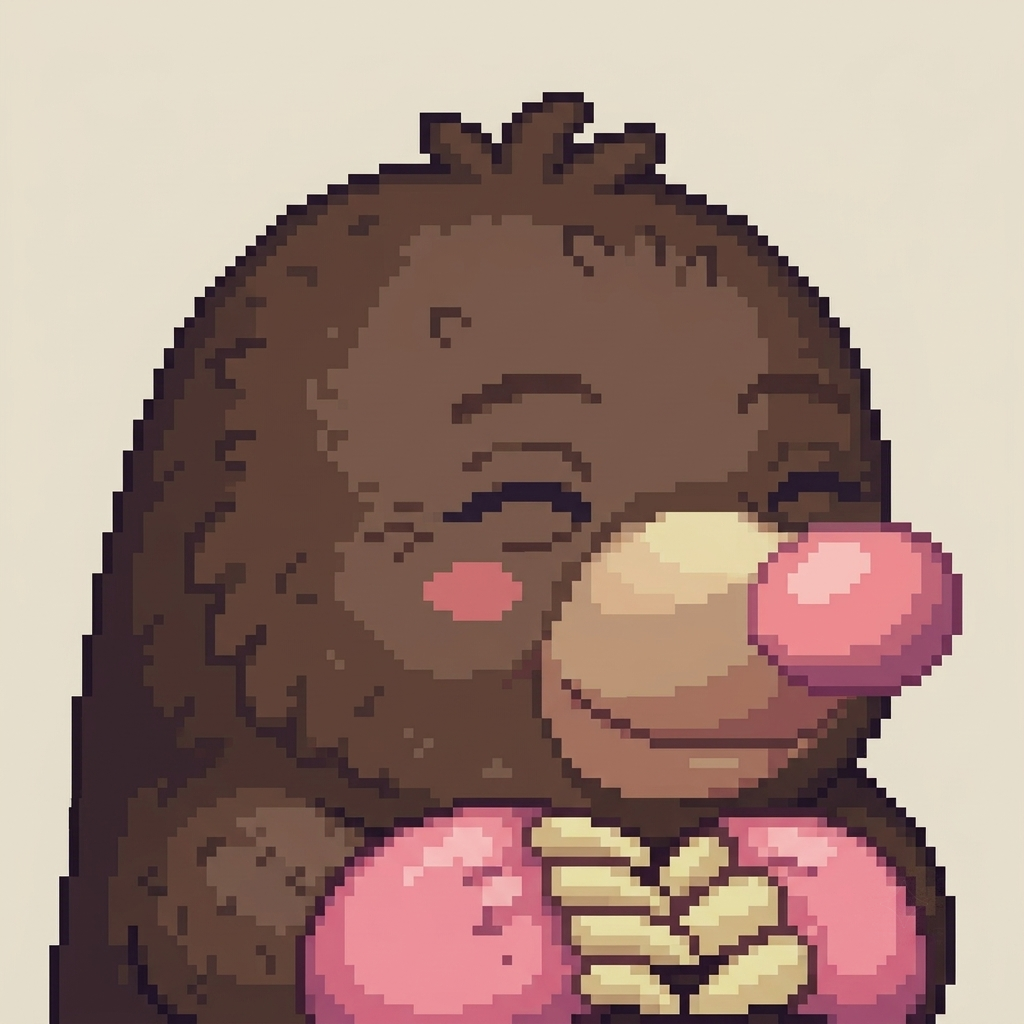
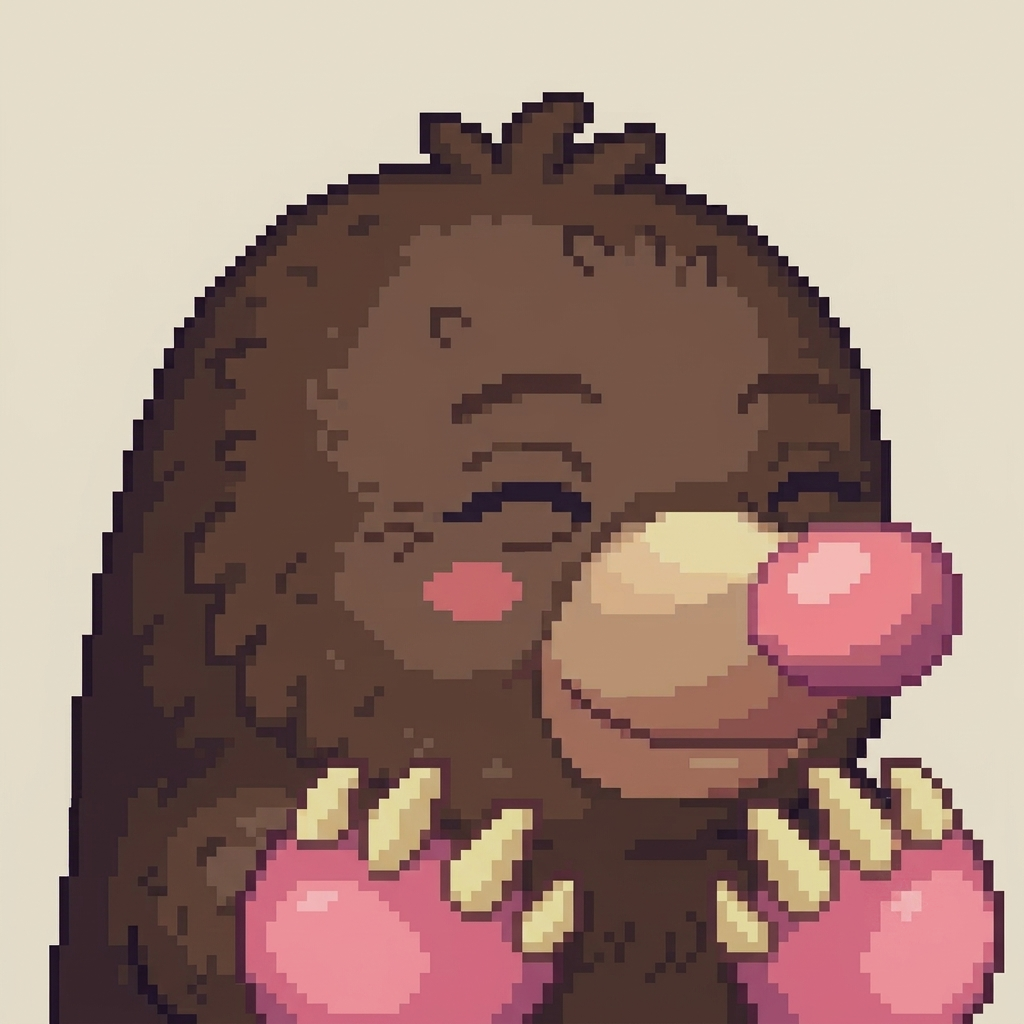
엄마 초상화: 깍지 낀 매듭처럼 보이던 발톱을 따로 고쳐 그린 원본으로 바꿈(앞발 둘이 떨어져 발톱이 위로, 0116)
Claude-Session: https://claude.ai/code/session_01VNXEyeHwdhsn4oiHYXtNpM

Changed region(s): [[0.2188, 0.7188, 1.0, 1.0]]

diff --git a/docs/phase-1-combat-prototype.md b/docs/phase-1-combat-prototype.md
@@ -124,7 +124,7 @@
 | 잠긴 문(0094·0096~0099) | `render.rs`(draw_root_gate·빛 패스), `sunny.rs`(FENCE_H·FENCE_V), `room.rs`(door_anim·tick_doors), `world.rs`(열릴 때 실 풀림) | 팩 나무 울타리 두 겹(가운데 칸만: 남북 39,2 · 동서 40,3, 가로대가 벽에서 벽까지, 팩이 없으면 물든 뿌리) + 가로대를 감는 보라 실, 0.35초에 솟아 닫히고 0.5초에 가라앉으며 실이 풀린다, 어둠 속에서도 실이 빛남 |
 | 어둠 지도·야광버섯·그림자(0095·0100) | `render.rs`(dark_rt·cut_material·light_sources·draw_cast_shadows·draw_mushrooms), `art.rs`(light), `biome.rs` | 빛 자리마다 어둠을 빼는 렌더 타깃, 버섯 빛 64px·세기 0.28(은은하게 넓게), 심층 버섯 14%·뿌리 지대 4%, 빛 반대쪽으로 눕는 그림자 |
 | 해·모닥불 그림자(0102~0106, 시험) | `render.rs`(draw_sun_shadows·shadow_dir·sun_shear·silhouette_material, draw_sorted의 sun), `sunny.rs`(stamp_sun_shadow), `terrain.rs`(Baker::fires), `tuning.rs`(SUN_SHADOW_*·FIRE_SHADOW_*·DECOR_LIFT_*) | 서 있는 것의 모양을 발 줄 축으로 눕혀 렌더 타깃에 모아 한 번에 얹는다. 밝은 곳은 해(오른쪽 아래), 모닥불 곁은 불 바깥쪽(150px, 멀수록 길게, 불이 아래면 더 길게 0104, 어두운 곳은 바깥으로 옅게). 모닥불 돌은 돌만 키운 모양(뒤쪽은 짧게, 0105). 그림자 패스는 몸만(빛·표시·반투명·바닥 것 제외, 밝은 곳은 타원 그림자 끔, 0106). 구운 꽃·조약돌·풀포기는 높이 비율만큼 짧게 |
-| Naïl·포포·모모(돌아옴·물듦)·보리(돌아옴·물듦)·누룩 할매·엄마 초상화 나노바나나(0107~0116) | `tools/art/sources/ai/nail_*.png`, `tools/art/ai_portraits.py`, `tools/art/portraits.py`(sheet), `docs/art/nano-banana-prompts.md` | 표정 넷 원본 → 로고 지우기·결의 눈 색·배경 투명·88×88·한 팔레트(눈 8색 따로)·털빛 셋(주둥이·발톱은 자리로 지킴). 포포: 틀 맞추기(높이 92%)·채도 높은 색 따로. 모모: 검은 선 → 자두빛, 틀 1.22(귀 끝을 칸 맨 위에, 가슴을 칸 아래로), 가슴이 지워지지 않게 아래 끝 번지기 끔. 물든 모모: 같은 틀, 실은 굵게·위로, 눈은 선명한 초록으로 고쳐 그림, 흰빛은 보랏빛으로 물들임. 보리: 시트를 통통하게 고쳐 그림, 틀 그대로. 들쥐 대장: 보리를 고쳐 그림, 눈 팔레트 안 뗌(보라 기운 털), 빨간 눈 밝게. 할매: 시트의 둥근 얼굴 판으로 표정 짝, 둘러싸인 배경 틈 지움. 엄마: Naïl 초상화를 함께 넣고 털을 짙고 매끈하게(발톱 매듭은 남음). 다른 캐릭터는 다음 차례 |
+| Naïl·포포·모모(돌아옴·물듦)·보리(돌아옴·물듦)·누룩 할매·엄마 초상화 나노바나나(0107~0116) | `tools/art/sources/ai/nail_*.png`, `tools/art/ai_portraits.py`, `tools/art/portraits.py`(sheet), `docs/art/nano-banana-prompts.md` | 표정 넷 원본 → 로고 지우기·결의 눈 색·배경 투명·88×88·한 팔레트(눈 8색 따로)·털빛 셋(주둥이·발톱은 자리로 지킴). 포포: 틀 맞추기(높이 92%)·채도 높은 색 따로. 모모: 검은 선 → 자두빛, 틀 1.22(귀 끝을 칸 맨 위에, 가슴을 칸 아래로), 가슴이 지워지지 않게 아래 끝 번지기 끔. 물든 모모: 같은 틀, 실은 굵게·위로, 눈은 선명한 초록으로 고쳐 그림, 흰빛은 보랏빛으로 물들임. 보리: 시트를 통통하게 고쳐 그림, 틀 그대로. 들쥐 대장: 보리를 고쳐 그림, 눈 팔레트 안 뗌(보라 기운 털), 빨간 눈 밝게. 할매: 시트의 둥근 얼굴 판으로 표정 짝, 둘러싸인 배경 틈 지움. 엄마: Naïl 초상화를 함께 넣고 털을 짙고 매끈하게, 앞발은 따로 고쳐 그림. 다른 캐릭터는 다음 차례 |
 | 웨이브 | `world.rs`, `scenario.rs` | 지금은 개발 시나리오(아레나·웨이브 3부터)에서만. 적을 다 잡으면 1.2초 뒤 다음 웨이브(1C+1S → 2C+1S → 2C+2S → 3C+2S). 명세엔 없지만 5분 플레이 판정을 위해 넣음 |
 
 확인한 것: 데스크톱(Xvfb) 실행 캡처로 렌더 방향·공격 반원·굴파기·히트박스 표시, 헤드리스 Chromium으로 웹 빌드 로드·입력·콘솔(mismatch 없음). 확인 못 한 것: 실제 손맛(판정 1~4), 실기 게임패드, 소리의 실제 느낌(컨테이너에 오디오 장치 없음).

diff --git a/docs/decisions/0116-mom-portrait.md b/docs/decisions/0116-mom-portrait.md
@@ -8,8 +8,7 @@
 - 시트를 건너뛰고 참고 그림(`ref_mom.png`) + **Naïl 초상화**를 함께 넣었다. 다른 캐릭터 초상화를 넣으면 생김새가 따라가는 버릇(0109)을 이번에는 일부러 썼다: 같은 종·같은 그림체가 목표였다.
 - 첫 그림은 목도리만 없는 Naïl이었다(털 색·뾰족한 털 윤곽·크기가 같다). 0049 사양("더 크고 털이 한 단 짙다")대로 "한 단 짙은 코코아 갈색, 납작하고 매끈한 털, 머리 위에만 짧은 털"로 고쳐 그렸다. 오프닝 일러스트(`mother_burrow`)의 매끈한 엄마와도 맞는다.
 
-## 남은 것
-- 앞발 발톱이 깍지 낀 크림색 매듭처럼 보인다(고쳐 그리기에서 "not interlocked"를 적었지만 그대로였다). 칸에서 앞발 사이 노란 덩어리로 읽힌다. 사장이 고친 그림을 주면 원본만 바꾼다.
+- 앞발: 발톱이 깍지 낀 크림색 매듭처럼 나왔다(털을 고칠 때 "not interlocked"를 같이 적었지만 그대로였다). 칸에서 앞발 사이 노란 덩어리로 읽혀, 앞발만 따로 고쳐 그렸다("Change only her front paws: two separate … claws pointing straight up"). 한 번에 여러 곳을 고치게 하면 일부가 빠진다 → 하나씩.
 
 ## 확인
 - 색까지 비교: 커밋된 시트와 다른 칸은 17뿐이다.
